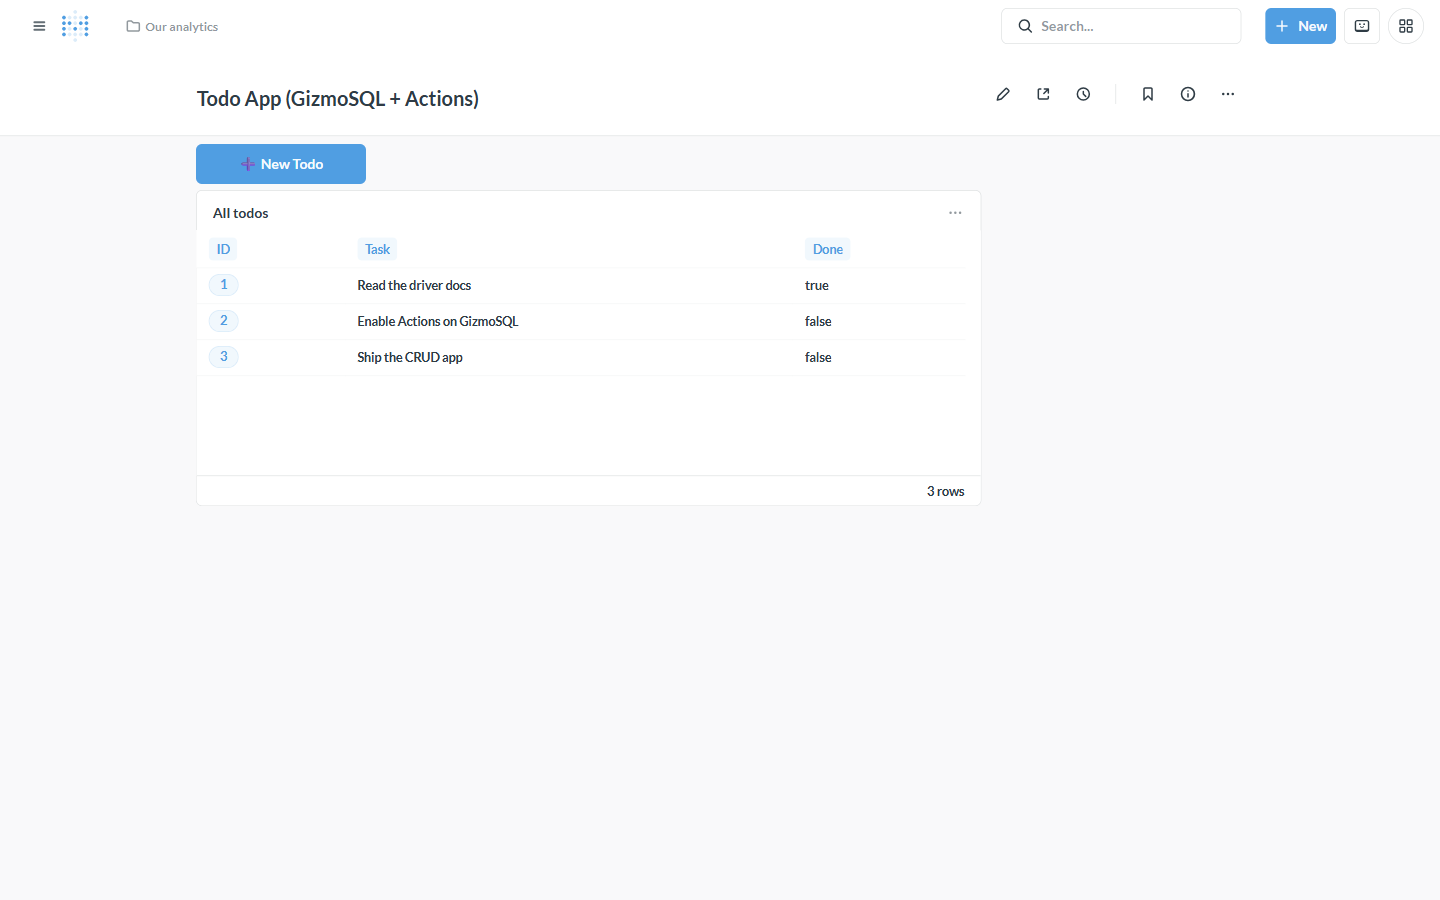
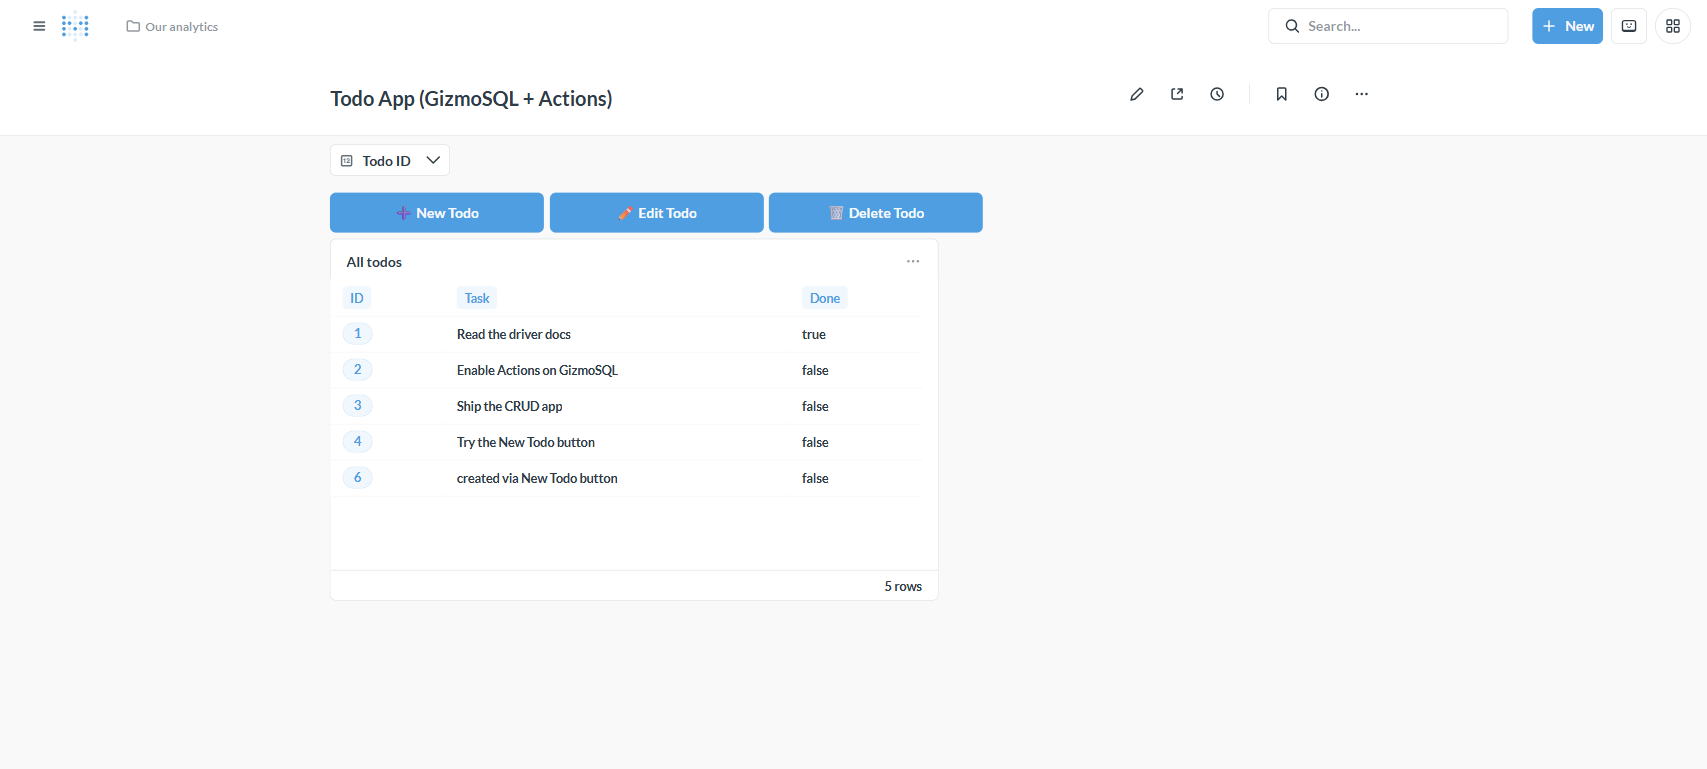
docs: full CRUD in the Todo-app tutorial (edit + delete + row-click)
Extend the CRUD tutorial from create-only to full CRUD, matching the live
demo dashboard:
- a "Todo ID" number filter that Edit/Delete target
- three action buttons (Create/Edit/Delete), with the row-scoped actions'
  `id` parameter mapped to the filter
- table row-click behavior (crossfilter) that sets the Todo ID filter, so
  clicking a row targets it; Edit then opens a form pre-filled with that
  row's current values

Verified live end-to-end on GizmoSQL through the dashboard action buttons:
UPDATE {rows-updated:1}, DELETE {rows-deleted:1}, CREATE {created-row} all
200, and the row-click -> filter -> pre-filled Edit form flow in the UI.

Recapture crud-01 (hero now shows the filter + 3 buttons) and add crud-04
(the pre-filled Update form after a row click).

diff --git a/docs/tutorials/crud-app-gizmosql.md b/docs/tutorials/crud-app-gizmosql.md
@@ -1,15 +1,20 @@
-# Tutorial: A CRUD app on your data (Actions)
+# Tutorial: A full-CRUD app on your data (Actions)
 
 **Backend:** GizmoSQL (DuckDB) · **Also works with:** Dremio, Doris/StarRocks ·
-**Level:** intermediate · **Time:** ~15 min
+**Level:** intermediate · **Time:** ~20 min
 
 ## Problem
 
 You want a small internal app — a to-do list, an approvals queue, a lookup-table
 editor — where people **create, edit, and delete rows** from a Metabase
-dashboard, no separate app framework. Metabase **Actions** do exactly this: buttons
-and forms that write back to your database. Through this driver they work on
-writable, full-DML Flight SQL backends.
+dashboard, no separate app framework. Metabase **Actions** do exactly this:
+buttons and forms that write back to your database. Through this driver they work
+on writable, full-DML Flight SQL backends.
+
+By the end you'll have a **Todo app** dashboard with **Create / Edit / Delete**
+wired to the table — click a row, edit it, done.
+
+![The Todo app dashboard: Todo ID filter, New/Edit/Delete buttons, and the table](images/crud-01-dashboard.png)
 
 ## When to use this
 
@@ -19,15 +24,8 @@ writable, full-DML Flight SQL backends.
 
 > **Backend must support full DML.** GizmoSQL/DuckDB, [Dremio](../backends/dremio.md)
 > (Iceberg), and [Doris/StarRocks](../backends/doris-starrocks.md) qualify.
-> **Spice is INSERT-only**, so basic (edit/delete) actions won't work there — see
+> **Spice is INSERT-only**, so edit/delete actions won't work there — see
 > [write-back / actions](writeback-actions.md).
-
-## What you'll build
-
-A **Todo app**: a dashboard showing a todos table with a **➕ New Todo** button
-that opens a form and writes a new row back to GizmoSQL.
-
-![The Todo app dashboard: a table plus a New Todo action button](images/crud-01-dashboard.png)
 
 ## Prerequisites
 
@@ -70,41 +68,75 @@ Turn the table into a **model** (New → Model → pick `main.todos`). A model t
 wraps a single table automatically gets **basic actions** — *create*, *update*,
 and *delete* — plus you can add **custom SQL actions** for bespoke writes.
 
-## Step 4 — Put a button on a dashboard
+## Step 4 — Build the dashboard
 
-Create a dashboard, add the todos question (a table), then **add an action
-button**: *Edit dashboard → Add → Action*, pick the model's **Create** action,
-and label it `➕ New Todo`. Save.
+Create a dashboard and, in **edit mode**, assemble four things:
+
+1. **The table.** Add the todos question (a plain table of the model).
+2. **A "Todo ID" filter.** *Add a filter → Number → Equal to*, name it **Todo
+   ID**. This is how Edit/Delete know *which* row to act on.
+3. **Three action buttons.** *Add → Action* three times:
+   | Button | Action | Label |
+   |---|---|---|
+   | Create | model's **Create** | `➕ New Todo` |
+   | Update | model's **Update** | `✏ Edit Todo` |
+   | Delete | model's **Delete** | `🗑 Delete Todo` |
+4. **Map the row-scoped actions to the filter.** On **Edit Todo** and **Delete
+   Todo**, map the action's **`id`** parameter to the **Todo ID** dashboard
+   filter (so `id` comes from the filter, not typed by hand). Leave `task` /
+   `done` to be entered in the form.
+
+### Wire row-clicks to the filter (so clicking a row targets it)
+
+Still in edit mode, click the table card's **behavior** (the ✎/click-behavior
+gear) → **Update a dashboard filter** → set **Todo ID = column `id`**. Now
+**clicking any row sets the Todo ID filter to that row's id** — Edit/Delete then
+operate on the row you clicked. Save the dashboard.
+
+> This is the "row → action" wiring: Metabase dashboards don't run an action
+> straight from a row click, but a row click *sets the filter*, and the mapped
+> Edit/Delete buttons act on it. Create isn't row-scoped (it makes a new row), so
+> it needs no filter.
 
 ## Step 5 — Use it
 
-Click **➕ New Todo**. Metabase opens a form built from the model's columns — note
-the PK `id` is omitted (it auto-generates):
+**Create.** Click **➕ New Todo** → a form built from the model's columns (the PK
+`id` is omitted — it auto-generates):
 
 ![The Create todo action form](images/crud-02-form.png)
 
-Type a task and **Save**. The `INSERT` runs on GizmoSQL through the driver and the
-table refreshes with the new row:
+Type a task, **Save**, and the `INSERT` runs on GizmoSQL through the driver:
 
 ![The dashboard after the action inserted a new row](images/crud-03-result.png)
 
-Wire up **Edit** and **Delete** the same way (the *update* / *delete* actions), or
-let users click a row to edit it — full CRUD from the dashboard.
+**Edit.** Click a **row** (the Todo ID filter fills with its id), then **✏ Edit
+Todo**. The form opens **pre-filled with that row's current values** — change
+what you want and **Update**:
+
+![The pre-filled Update form after clicking a row](images/crud-04-edit.png)
+
+**Delete.** Click a **row**, then **🗑 Delete Todo** → confirm. The `DELETE` runs
+and the table refreshes.
+
+That's full CRUD — Create, Read, Update, Delete — from one dashboard.
 
 ---
 
 ## How it works
 
 ```
-button → form → Metabase Action ──(INSERT/UPDATE/DELETE via arrow-flight-sql)──▶ GizmoSQL
-                  create/update/delete                 driver
+click row ─▶ sets "Todo ID" filter ─┐
+                                     ├─▶ ✏ Edit  ─▶ UPDATE ─┐
+➕ New ─▶ CREATE ────────────────────┤   🗑 Delete ─▶ DELETE ─┼▶ arrow-flight-sql ─▶ GizmoSQL
+                                     └────────────────────────┘        driver
 ```
 
 The driver advertises the `:actions` / `:actions/custom` features (gated on the
 Enable-Actions toggle) and reuses Metabase's `perform-action!*` machinery, with a
 few Flight-SQL-specific pieces (autocommit "transactions", value casting, and an
 inline row-lookup after insert since Flight SQL returns an update count, not
-generated keys). Covered by [test_actions.py](../../tests/e2e/test_actions.py).
+generated keys). Basic create/update/delete **and** custom SQL actions are
+covered end-to-end by [test_actions.py](../../tests/e2e/test_actions.py).
 
 ## Variations & gotchas
 
@@ -113,6 +145,8 @@ generated keys). Covered by [test_actions.py](../../tests/e2e/test_actions.py).
 - **Mark the PK** (Entity Key) — required for basic actions; auto-detection
   varies across backends so it's a manual step here.
 - **Auto-increment the PK** (a sequence/identity) so *create* can omit it.
+- **Update/Delete need the `id`.** The Todo ID filter (fed by the row click)
+  supplies it; without a filter value the buttons have no row to act on.
 - **Custom SQL actions** handle writes the basic actions don't — any
   parameterized `INSERT/UPDATE/DELETE` with `{{template-tags}}`.
 - **Permissions.** Creating/running actions is admin-gated; restrict write access
